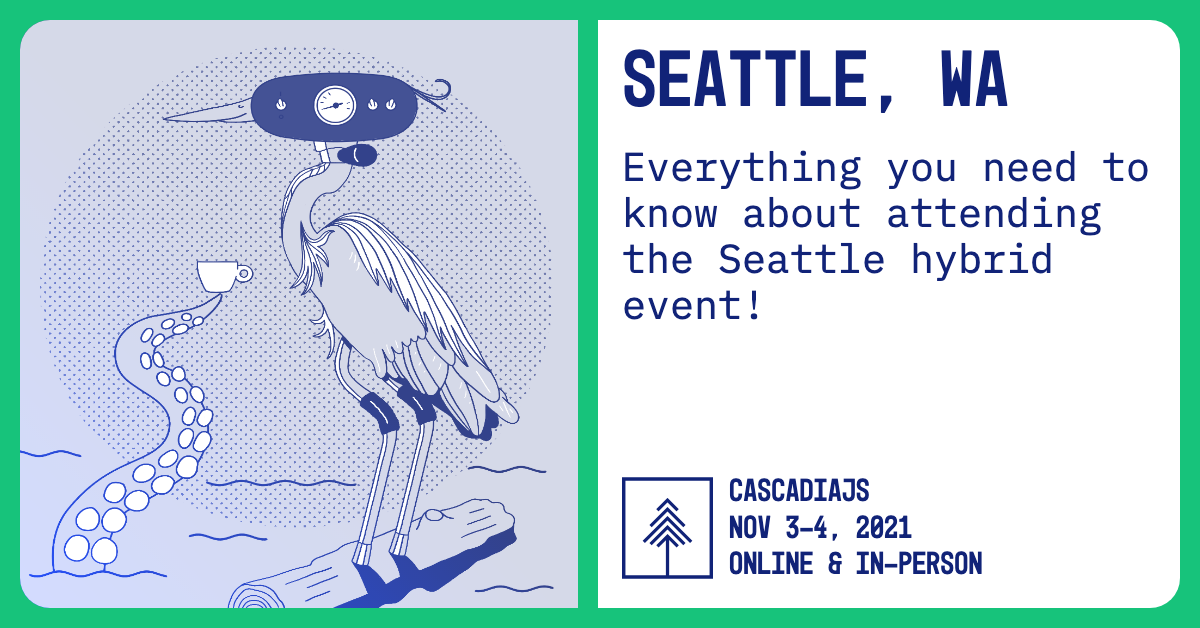
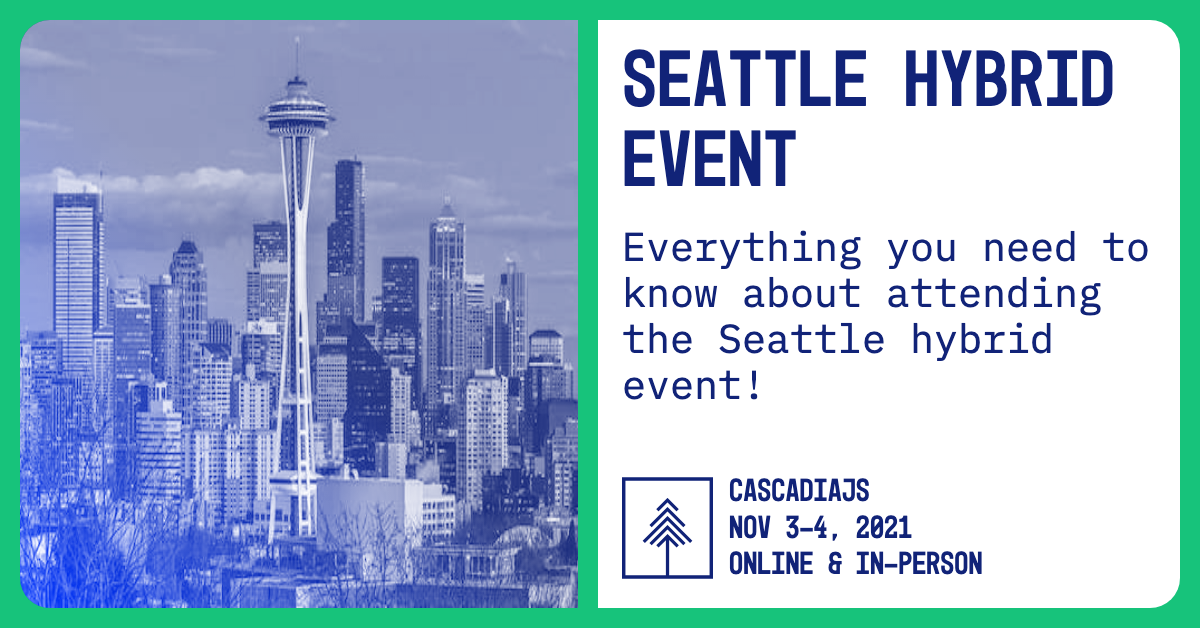
boulder, seattle tweaks

diff --git a/src/views/content/conf/boulder.md b/src/views/content/conf/boulder.md
@@ -1,14 +1,16 @@
 ---
-title: Boulder, CO
+title: Boulder Hybrid Event
 excerpt: Everything you need to know about attending the Boulder hybrid event!
 image: /images/conf/techstars-boulder.jpg
 ---
 Everything you need to know about attending the Boulder, CO community watch party!
 
-NOTE: This 
+*NOTE: This is a unofficial community-organized watch party. Our [Code of Conduct](/code-of-conduct) will still apply, of course.*
 
 ## Venue
 
 ![Techstars Boulder](/images/conf/techstars-boulder.jpg)
+
+The watch party will be held at the Techstars Boulder offices. $10 of every ticket sale will go to Women Who Code. More info coming soon!
 
 <div class="cta"><a href="https://ti.to/event-loop/cascadiajs-2021">Buy Boulder Ticket</a></div>

diff --git a/src/views/content/conf/seattle.md b/src/views/content/conf/seattle.md
@@ -1,6 +1,7 @@
 ---
-title: Seattle, WA
+title: Seattle Hybrid Event
 excerpt: Everything you need to know about attending the Seattle hybrid event!
+image: /images/conf/seattle.jpg
 ---
 Everything you need to know about attending the Seattle, WA hybrid event!
 

diff --git a/src/views/content/conf/vancouver.md b/src/views/content/conf/vancouver.md
@@ -1,5 +1,5 @@
 ---
-title: Vancouver, BC
+title: Vancouver BC Hybrid Event
 excerpt: Everything you need to know about attending the Vancouver hybrid event!
 image: /images/conf/vancouver.jpg
 ---

diff --git a/src/views/content/conf/portland.md b/src/views/content/conf/portland.md
@@ -1,5 +1,5 @@
 ---
-title: Portland, OR
+title: Portland Hybrid Event
 excerpt: Everything you need to know about attending the Portland hybrid event!
 image: /images/conf/portland.jpg
 ---
